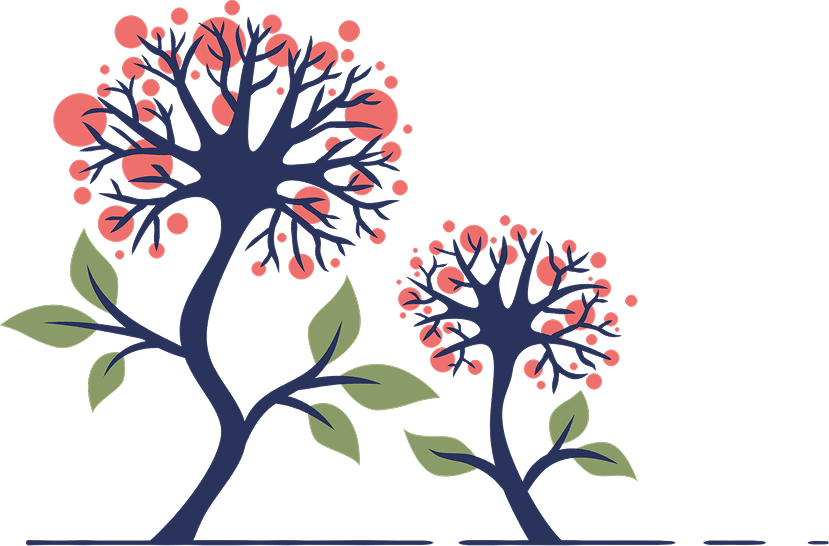
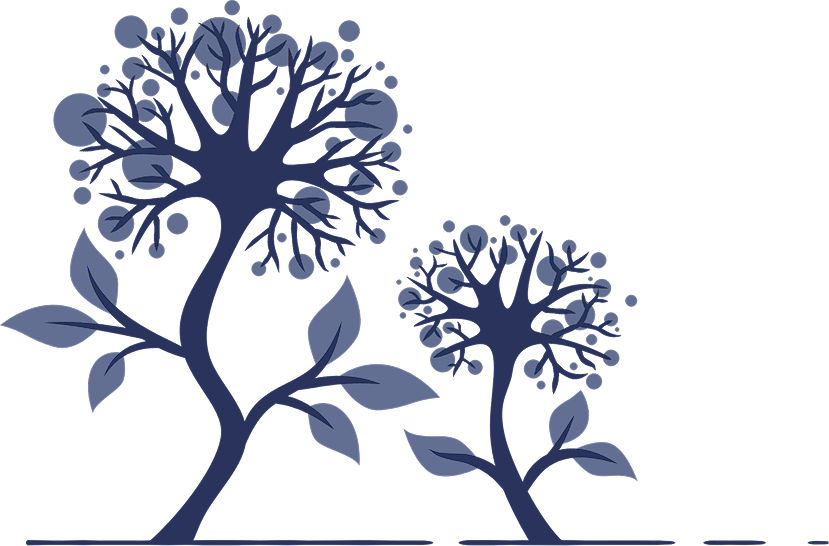
stylish

diff --git a/src/styles/_nav.scss b/src/styles/_nav.scss
@@ -86,14 +86,13 @@ $mb-menu-beakpoint: 960px;
   border-top: 1px solid map.get($colors, "darkBlue");
   padding-top: 17px;
 
-  @media (min-width:960px) {
-    padding-top:0;
-    border-top:5px;
+  @media (min-width: 960px) {
+    padding-top: 0;
+    border-top: 5px;
     padding-left: 1.5rem;
     border-left: 1px solid map.get($colors, "darkBlue");
   }
 }
-
 
 #mb-menu-toggler {
   display: none;
@@ -166,11 +165,11 @@ $mb-menu-beakpoint: 960px;
     justify-content: flex-start !important;
     gap: 1rem;
     max-height: 0;
-    width: 100%;
+    width: 110%;
     overflow: hidden;
     position: absolute;
     top: 100%;
-    left: 0;
+    left: -12px;
   }
 
   body.mobile-menu--open {
@@ -182,7 +181,7 @@ $mb-menu-beakpoint: 960px;
       max-height: calc(100vh - $mb-header-height);
       overflow: auto;
       z-index: 999;
-      background:#f6fbff6b;
+      background: rgb(246 251 255);
     }
   }
 
@@ -239,7 +238,7 @@ $heightNavbar: 125px;
     top 0.3s,
     padding 0.3s ease;
   top: 0;
-  background-color: rgb(246 251 255 / 80%);
+  background-color: rgba(246,251,255,.42)
 }
 
 #navbar.visible {
@@ -249,6 +248,7 @@ $heightNavbar: 125px;
 #navbar.visible:not(.sticky) {
   padding: 0px 1.5rem;
   box-shadow: 0px 4px 10px rgba(0, 0, 0, 0.04);
+  background-color: rgb(246 251 255 / 93%);
 
   .caption {
     opacity: 0;

diff --git a/src/styles/shared/variables.scss b/src/styles/shared/variables.scss
@@ -2,17 +2,16 @@
 
 $colors: (
   //base
-  "orange": #ef6f6c,
-  "blue": #7390dd,
-  "green": #cadb91,
+  "orange":#F0706C,  
+  "coral":#FFD9F8,  
+  "navy": #5D688E,    
   "darkBlue": #29335c,
-  //general
-  "primary": #7390dd,
-  "secondary": #29335c,
+
   //status
   "succes": green,
   "warn": yellow,
   "error": red,
+  
   //additional
   "background": #f6fbff6b,
   "dark": #191F37,
@@ -41,7 +40,6 @@ $fonts: (
 // Font colors map
 $font-colors: (
   "theme": map.get($colors, "dark"),
-  "secondary": map.get($colors, "darkBlue"),
   "btn-default": map.get($colors, "dark"),
   "btn-default-hover": map.get($colors, "white"),
   "menu-links": inherit,
@@ -53,7 +51,7 @@ $font-colors: (
 $background-colors: (
   "theme": map.get($colors, "background"),
   "btn-default": map.get($colors, "background"),
-  "btn-default-hover": map.get($colors, "primary"),
+  "btn-default-hover": map.get($colors, "navy"),
 );
 
 // Breakpoints map

diff --git a/src/styles/main.scss b/src/styles/main.scss
@@ -200,7 +200,7 @@ body {
   min-height: 364px;
   width: 327px;
   max-width: 100%;
-  background-color: map.get($colors, "blue");
+  background-color: map.get($colors, "navy");
   color: white;
   padding: 3.5rem 2rem 2rem 2rem;
 
@@ -228,7 +228,7 @@ body {
   min-height: 230px;
   width: 460px;
   max-width: 100%;
-  background: map.get($colors, "blue");
+  background: map.get($colors, "navy");
   color: white;
   padding: 3.5rem 2rem 4rem 2rem;
   position: relative;

diff --git a/inc/theme-main.php b/inc/theme-main.php
@@ -192,7 +192,7 @@ function display_social_links() {
     }
 
     if ($has_any): ?>
-        <div class="row social-icons gap-2 mt-4 m-0">
+        <div class="row social-icons gap-2 m-0">
             <?php foreach ($socials as $slug => $label) :
                 $url = get_field("{$slug}_link", 'options');
                 if ($url) : ?>
